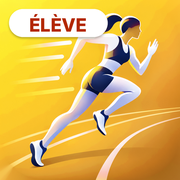
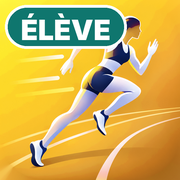
Icônes demi-fond : badge ÉLÈVE / PROF plus grand et en couleur
Claude-Session: https://claude.ai/code/session_01UuASiQCvSrQnQNuK24r3AJ

Changed region(s): [[0.0278, 0.0278, 0.7222, 0.2778]]

diff --git a/sw.js b/sw.js
@@ -1,6 +1,6 @@
 /* Hors ligne : l'appli est gardée sur la tablette après la 1re ouverture.
-   Après une modification, augmenter VERSION (dfe-v1 → dfe-v2…). */
-const VERSION='dfe-v2';
+   Après une modification, augmenter VERSION (dfe-v1 → dfe-v3…). */
+const VERSION='dfe-v3';
 const FICHIERS=['./','index.html','style.css','donnees.js','logique.js','qrcode.js','jsqr.js','scan.js','vues.js','chrono.js','app.js','demo.js','manifest.webmanifest',
   'icon-32.png','icon-180.png','icon-192.png','icon-512.png'];
 self.addEventListener('install',e=>{e.waitUntil(caches.open(VERSION).then(c=>c.addAll(FICHIERS)).then(()=>self.skipWaiting()))});
